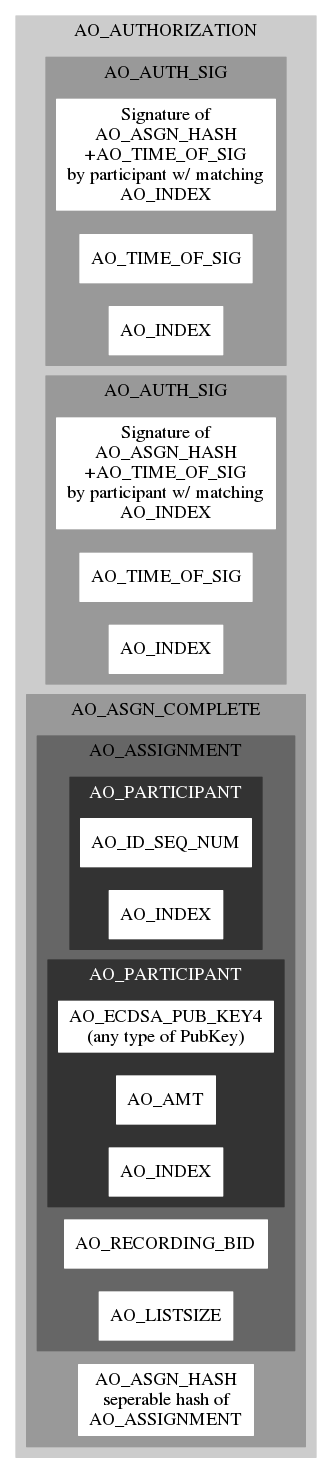
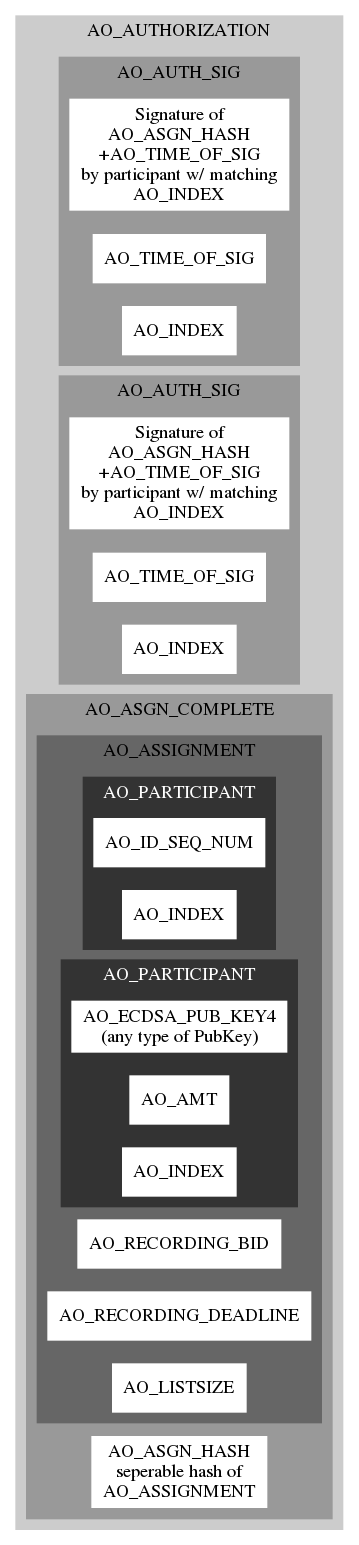
add some requirements specs

diff --git a/docs/html/Requirements.html b/docs/html/Requirements.html
@@ -1,0 +1,170 @@
+<!--
+ MIT License
+
+ Copyright (c) 2018 Assign Onward
+
+ Permission is hereby granted, free of charge, to any person obtaining a copy
+ of this software and associated documentation files (the "Software"), to deal
+ in the Software without restriction, including without limitation the rights
+ to use, copy, modify, merge, publish, distribute, sublicense, and/or sell
+ copies of the Software, and to permit persons to whom the Software is
+ furnished to do so, subject to the following conditions:
+
+ The above copyright notice and this permission notice shall be included in all
+ copies or substantial portions of the Software.
+
+ THE SOFTWARE IS PROVIDED "AS IS", WITHOUT WARRANTY OF ANY KIND, EXPRESS OR
+ IMPLIED, INCLUDING BUT NOT LIMITED TO THE WARRANTIES OF MERCHANTABILITY,
+ FITNESS FOR A PARTICULAR PURPOSE AND NONINFRINGEMENT. IN NO EVENT SHALL THE
+ AUTHORS OR COPYRIGHT HOLDERS BE LIABLE FOR ANY CLAIM, DAMAGES OR OTHER
+ LIABILITY, WHETHER IN AN ACTION OF CONTRACT, TORT OR OTHERWISE, ARISING FROM,
+ OUT OF OR IN CONNECTION WITH THE SOFTWARE OR THE USE OR OTHER DEALINGS IN THE
+ SOFTWARE.
+-->
+<html><head><style>
+/* Tooltip container */
+.tooltip {
+    position: relative;
+    display: inline-block;
+    zoom: 0.75;
+    /* border-bottom: 1px dotted black; If you want dots under the hoverable text */
+}
+
+/* Tooltip text */
+.tooltip .tooltiptext {
+    visibility: hidden;
+    width: 240px;
+    background-color: #eee;
+    color: #000;
+
+    text-align: center;
+    padding: 5px 5px;
+    border-radius: 6px;
+
+    /* Position the tooltip text */
+    position: absolute;
+    z-index: 1;
+    bottom: 125%;
+    left: 50%;
+    margin-left: -120px;
+
+    /* Fade in tooltip */
+    opacity: 0;
+    transition: opacity 0.3s;
+}
+
+/* Tooltip arrow */
+.tooltip .tooltiptext::after {
+    content: "";
+    position: absolute;
+    top: 100%;
+    left: 50%;
+    margin-left: -5px;
+    border-width: 5px;
+    border-style: solid;
+    border-color: #eee transparent transparent transparent;
+}
+
+/* Show the tooltip text when you mouse over the tooltip container */
+.tooltip:hover .tooltiptext {
+    visibility: visible;
+    opacity: 1;
+}
+
+.zoom {
+    zoom: 2;
+}
+
+.page {
+    margin-top: 60px;
+    margin-bottom: 60px;
+    margin-right: 140px;
+    margin-left: 160px;
+}
+</style>
+
+<meta charset="UTF-8"/>
+<title>Requirements</title>
+</head>
+
+<body>
+<div class="page">
+<div class="zoom">
+<img src="AO.png" alt="Ⓐ" width="64" height="64" style="float:right">
+
+<h1>Requirements</h1>
+
+<p>Enumerated, small, testable descriptions of functionality, guided by the <a href="CorePrinciples.html">Core Principles</a>, and mixed with implementation decisions that, while not specifically required to fulfill the core principles, do serve to fulfill the requirements and provide a defined solution.</p>
+
+<ul>
+    <li>R1: A <a href="Signatures.html">signature</a> is a data collection which includes:</li>
+    <ul><li>R1a: The <a href="Numbers.html#Time">time</a> the signature was generated.</li>
+        <li>R1b: A recognized and identified cryptographic signature of the entire data item being signed, with any <a href="SeparableItems.html">separable items</a> replaced by recognized and identified hashes of the potentially separated items,<div class="tooltip"><sup>*</sup><span class="tooltiptext">In the event that an item is separated, it must be replaced with this same hash which was used to compute the signature.</span></div> and the time of signature from R1a appended.</li>
+        <li>R1c: A reference to what is being signed, for example: a participant index in an assignment agreement.</li>
+    </ul>
+</ul>
+
+<ul>
+    <li>R2: A signature may be computed using any<div class="tooltip"><sup>*</sup><span class="tooltiptext">As constrained by the item key type's definition, for instance the AO_ECDSA_SIG key indicates an ECDSA signature using brainpool256 curve and Sha2-256 hash replacements for separable items.</span></div> cryptographic signature algorithm recognized by the protocol implementation.</li>
+    <ul><li>R2a: Ⓐ1 protocol recognizes ECDSA brainpool-256 and RSA3072 signature types.</li>
+        <li>R2b: Ⓐ1 protocol expects all signature types to use Sha2-256 hash for separable items.<div class="tooltip"><sup>*</sup><span class="tooltiptext">Future protocols may identify different signature keys which still use the same ECDSA and RSA signature computations but use a different hash for separable items.</span></div></li>
+    </ul>
+</ul>
+
+<ul>
+    <li>R3: A hash may be computed using any<div class="tooltip"><sup>*</sup><span class="tooltiptext">As constrained by the item key type's definition, for instance the AO_ECDSA_SIG key indicates an ECDSA signature using brainpool256 curve and Sha2-256 hash replacements for separable items.</span></div> cryptographic algorithm recognized by the protocol implementation.</li>
+    <ul><li>R3a: Ⓐ1 protocol recognizes Sha2-256 and Sha3-512 hash types.</li>
+    </ul>
+</ul>
+
+<ul>
+    <li>R4: <a href="AssignmentAgreement.html">Assignment agreements</a> are structured into AO_AUTHORIZATION collections as described in the linked document, including:</li>
+    <ul><li>R4a: Valid AO_AUTH_SIG signature data collections as described in R1 for every participant in the R4b1 AO_ASSIGNMENT, signing the AO_ASGN_HASH from R4b2 plus the time of signing.</li>
+        <li>R4b: An AO_ASSIGN_COMPLETE data collection, including:</li>
+        <ul><li>R4b1: an AO_ASSIGNMENT containing:
+            <ul><li>R4b1a: All Giver participants, which include:</li>
+                <ul><li>R4b1a1: AO_ID_SEQ_NUM of the giver<div class="tooltip"><sup>*</sup><span class="tooltiptext">A reference to the public ID of the giver, as well as the AO_AMT of shares that ID controls, and the current UTXO database should indicate if those shares are still available for assignment onward.</span></div></li>
+                    <li>R5b1a2: AO_INDEX unique identifier of the participant within this transaction<div class="tooltip"><sup>*</sup><span class="tooltiptext">for later matching with their signature in the authorization.</span></div></li>
+                </ul>
+                <li>R4b1b: All Receiver participants, which include:</li>
+                <ul><li>R4b1b1: A <a href="AtomicAssignment.html">unique</a><div class="tooltip"><sup>*</sup><span class="tooltiptext">unique meaning not used before in this blockchain, definitely not appearing in the existing list of keys indexed by AO_ID_SEQ_NUM</span></div> public key identifying the receiver</li> 
+                    <li>R4b1b2: AO_AMT number of shares being received in this assignment.</li>
+                    <li>R4b1b3: AO_INDEX unique identifier of the participant within this transaction<div class="tooltip"><sup>*</sup><span class="tooltiptext">for later matching with their signature in the authorization.</span></div></li>
+                </ul>
+                <li>R4b1c: AO_RECORDING_BID - all receiver AO_AMTs plus the AO_RECORDING_BID must match the amount of shares referred to by the Givers' AO_ID_SEQ_NUM.</li>
+                <li>R4b1d: AO_RECORDING_DEADLINE - time by which this assignment must be recorded to be binding.</li>
+                <li>R4b1e: AO_LISTSIZE - number of givers and receivers in the assignment (redundant, check info).</li>
+            </ul>
+            <li>R4b2: an AO_ASGN_HASH hash of the AO_ASSIGNMENT in R4b1:
+        </ul>
+    </ul>
+</ul>
+
+</div>
+<br/><a href="index.html"><span itemprop="author" itemscope itemtype="http://schema.org/Person">
+<span itemprop="name">Assign Onward</span></a></span><br/>
+<span itemprop="datePublished" content="2018-08-13"><div class="tooltip">13 August 2018<span class="tooltiptext">
+MIT License
+<br/>
+Copyright (c) 2018 Assign Onward
+<br/><br/>
+Permission is hereby granted, free of charge, to any person obtaining a copy
+of this software and associated documentation files (the "Software"), to deal
+in the Software without restriction, including without limitation the rights
+to use, copy, modify, merge, publish, distribute, sublicense, and/or sell
+copies of the Software, and to permit persons to whom the Software is
+furnished to do so, subject to the following conditions:
+<br/><br/>
+The above copyright notice and this permission notice shall be included in all
+copies or substantial portions of the Software.
+<br/><br/>
+THE SOFTWARE IS PROVIDED "AS IS", WITHOUT WARRANTY OF ANY KIND, EXPRESS OR
+IMPLIED, INCLUDING BUT NOT LIMITED TO THE WARRANTIES OF MERCHANTABILITY,
+FITNESS FOR A PARTICULAR PURPOSE AND NONINFRINGEMENT. IN NO EVENT SHALL THE
+AUTHORS OR COPYRIGHT HOLDERS BE LIABLE FOR ANY CLAIM, DAMAGES OR OTHER
+LIABILITY, WHETHER IN AN ACTION OF CONTRACT, TORT OR OTHERWISE, ARISING FROM,
+OUT OF OR IN CONNECTION WITH THE SOFTWARE OR THE USE OR OTHER DEALINGS IN THE
+SOFTWARE.
+</span></div></span>
+</div>
+</body></html>

diff --git a/docs/html/AssignmentAgreement.html b/docs/html/AssignmentAgreement.html
@@ -95,7 +95,9 @@
 <span itemscope itemtype="http://schema.org/Article"><h1 id="_name1" itemprop="name">Assignment Agreement</h1>
 
 
-<span itemprop="articleBody">An asssignment agreement is a list of shares available to be assigned, and identities (<a href="BlockchainBasics.html#KeyPairs">public keys</a>) which will receive shares, plus a specified recording fee.  Following the principles of <a href="AtomicAssignment.html">atomic assignment</a>, all shares assigned are assigned in their entirety, and public keys are never reused.<div class="tooltip"><sup>1</sup><span class="tooltiptext">Most of the time, a giver of shares will be giving more shares than needed for the transaction, so they also provide one or more IDs to receive the excess shares under.</span></div>  The agreement includes a recording deadline, if the agreement is not recorded by the deadline, it becomes null and void, and shares given in the agreement may be given in other agreements.<div class="tooltip"><sup>2</sup><span class="tooltiptext">Givers of shares might record an explicit revocation of expired agreements which do not get recorded, which would act to block inclusion of any side chains that might appear containing the expired transactions.  To this end, shares might remain in escrow for some period of time following an agreement expiration to allow for recording of the revocation.</span></div>  When all parties, givers and receivers, have signed (Authorized) a share assignment agreement, it becomes binding upon them pending recording.
+<span itemprop="articleBody">An asssignment agreement is a list of shares available to be assigned, and identities (<a href="BlockchainBasics.html#KeyPairs">public keys</a>) which will receive shares, plus a specified recording fee.  Following the principles of <a href="AtomicAssignment.html">atomic assignment</a>, all shares assigned are assigned in their entirety, and public keys are never reused.<div class="tooltip"><sup>1</sup><span class="tooltiptext">Most of the time, a giver of shares will be giving more shares than needed for the transaction, so they also provide one or more IDs to receive the excess shares under.</span></div>  The agreement includes a recording deadline, if the agreement is not recorded by the deadline, it becomes null and void, and shares given in the agreement may be given in other agreements.<div class="tooltip"><sup>2</sup><span class="tooltiptext">Givers of shares might record an explicit revocation of expired agreements which do not get recorded, which would act to block inclusion of any side chains that might appear containing the expired transactions.  To this end, shares might remain in escrow for some period of time following an agreement expiration to allow for recording of the revocation.</span></div>  When all parties, givers and receivers, have signed (Authorized) a share assignment agreement, it becomes binding upon them pending recording.<br/><br/>  
+
+If an agreement should fail to be recorded by the recording deadline, any party to the agreement may (optionally) record a refutation of the agreement including the AO_ASSN_HASH and the AO_ID_SEQ_NUM of one giver of shares in the agreement.  Note that any valid assignment agreement including any AO_ID_SEQ_NUM recorded after the deadline of this agreement automatically invalidates this agreement, but without such assignment or explicit refutation, the expired agreement may be recorded late and will then be considered valid.
 
 <img src="authorization.png" alt="Authorization" style="float:right">
 <h2>Signing an Agreement</h2>

diff --git a/docs/html/Numbers.html b/docs/html/Numbers.html
@@ -104,12 +104,11 @@ Floating point numbers may be used in user interface representations of rational
 
 <h2>Storage</h2>
 
-Both 64 bit integers and GMP integers are stored in key-value form where a 64 bit key<div class="tooltip"><sup>*</sup><span class="tooltiptext">stored as variable byte code</span></div> preceeds the data, with the data format indicated by the key value: variable length byte code for 64 bit integers, or the byte encoded form of a GMP integer or rational fraction.  64 bit integers are stored as <a href="VariableByteCoding.html">variable byte code</a>, GMP integers and fractions use <a href="GmpIntegerStorage.html">a different</a><div class="tooltip"><sup>*</sup><span class="tooltiptext">more compact for larger numbers</span></div> encoding.<br/><br/>
+Both 64 bit integers and GMP integers are stored in key-value form where a 64 bit key<div class="tooltip"><sup>*</sup><span class="tooltiptext">stored as variable byte code</span></div> preceeds the data, with the data format indicated by the key value: 64 bit integers are stored as <a href="VariableByteCoding.html">variable byte code</a>, GMP integers and fractions use <a href="GmpIntegerStorage.html">a different</a><div class="tooltip"><sup>*</sup><span class="tooltiptext">more compact for larger numbers</span></div> encoding.<br/><br/>
 
-<h1>Time</h1>
+<h1><a name="Time">Time</a></h1>
 
 Time is expressed in <a href="https://en.wikipedia.org/wiki/Unix_time#Encoding_time_as_a_number">Unix Time</a> encoded in a signed 64 bit integer, with the seconds multiplied by 189,000,000.<div class="tooltip"><sup>*</sup><span class="tooltiptext">this encoding places the storage value rollover event approximately 1,500 years in the future.</span></div>  The 189,000,000<div class="tooltip"><sup>*</sup><span class="tooltiptext">Why 189?  189 is 3x3x3x7, enabling even division by any number up to 10, and many more common larger numbers.</span></div> divisions are used to ensure that events generated on a single server are given a strictly increasing sequence in time - while events coming from multiple sources may be recorded as simultaneous, no two events recorded by a single actor may be marked as simultaneous.<div class="tooltip"><sup>*</sup><span class="tooltiptext">Regarding <a href="https://en.wikipedia.org/wiki/Network_Time_Protocol#Leap_seconds">leap second concerns</a> the only rule for AO protocol is that events must be sequential in represented time.  One might condsider a leap second to be a brief trading halt, or if one must trade during the leap second, the software must simply assure monotonically increasing time numbers for all time records.</span></div>  It is expected that actual clock times accurate to the millisecond will be used, and for events which are generated in the same millisecond of clock time, their timestamps will be adjusted to place them in proper sequence when considering the smaller divisions of time.  When time values are stored, they are stored as straight 8 byte big endian storage of the integer.
-
 
 </span>
 

diff --git a/docs/html/AtomicAssignment.html b/docs/html/AtomicAssignment.html
@@ -95,8 +95,10 @@
 <span itemscope itemtype="http://schema.org/Article"><h1 id="_name1" itemprop="name">Atomic Assignment</h1>
 
 
-<span itemprop="articleBody">Atomic Assignment refers to a rule: when title to shares is assigned, all the shares are assigned at one time.  This is not actually restrictive at all, because any assignment contract may have as many assigners and receivers as desired.<div class="tooltip"><sup>*</sup><span class="tooltiptext">up to a reasonable limit, perhaps about 1000, to prevent transaction spam from overtaxing the underwriters.</span></div> So, if (usually when) an assigner's source of shares has more shares than are needed for the transaction, the assigner provides a new public key to receive the excess shares in.</br>
-Among other things, this makes it simpler to verify no double spends: if an underwriter keeps a list of the private keys of all shares assigned in a range of blocks, then the absence of the source shares' public key in that range confirms that they have not been previously assigned.
+<span itemprop="articleBody">Atomic Assignment refers to a rule: when title to shares is assigned, all the shares are assigned at one time.  This is not actually restrictive at all, because any assignment contract may have as many assigners and receivers as desired.<div class="tooltip"><sup>*</sup><span class="tooltiptext">up to a reasonable limit, perhaps about 1000, to prevent transaction spam from overtaxing the underwriters.</span></div> So, if (usually when) an assigner's source of shares has more shares than are needed for the transaction, the assigner provides a new public key to receive the excess shares in.</br></br>
+
+Among other things, this makes it simpler to verify no double spends: When each new ID (public key) is entered into the blockchain, it has a unique sequence number which may thereafter be used to refer to the public key value.  Whether the shares associated any particular key are still available to be assigned is a simple binary state of the key's position in that list of all recorded public keys.
+
 </span>
 
 </div>

diff --git a/docs/html/CorePrinciples.html b/docs/html/CorePrinciples.html
@@ -103,7 +103,7 @@ Assertions<div class="tooltip"><sup>1</sup><span class="tooltiptext">More concre
     </ul>
     <li><a href="CryptographicPrimitives.html">Cryptographic Algorithms</a> may expand to include new ones in the future.</li>
     <li><a href="SeparableItems.html">Separable items</a> to support removal of illegal<div class="tooltip"><sup>5</sup><span class="tooltiptext">or simply unwanted</span></div> content without degrading integrity of the remaining data.<div class="tooltip"><sup>6</sup><span class="tooltiptext">Note that information essential to contract processing cannot be separable.</span></div></li>
-    <li><a href="Expiration.html">Share expiration</a>, no immortal shares - keys get lost, life goes on.</li>
+    <li><a href="Expiration.html">Share expiration</a>, no immortal shares - sometimes keys get lost, life goes on.</li>
     <li>No dependency on <a href="ProofOfWork.html">proof of work</a>.</li>
 </ul>
 
